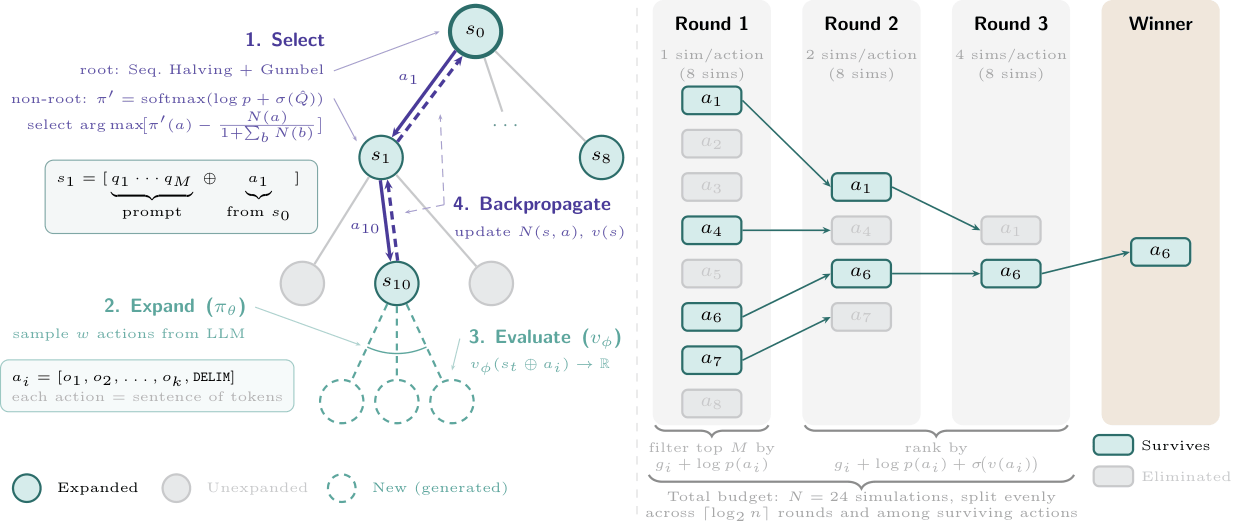
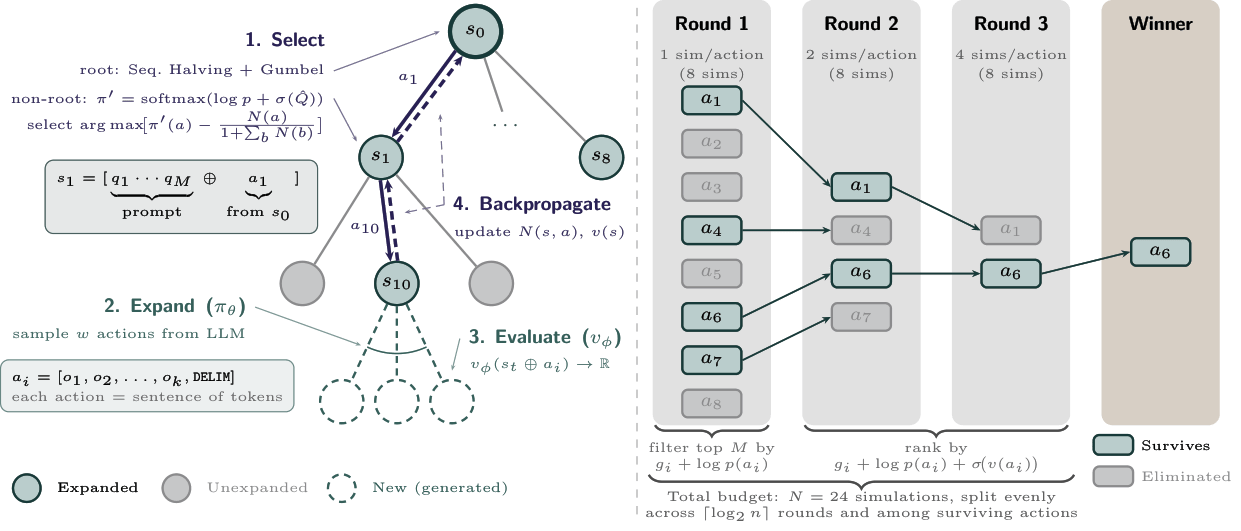
Updated README

diff --git a/README.md b/README.md
@@ -2,7 +2,8 @@
 
 **ReSCALE** is a modified Gumbel AlphaZero MCTS that replaces Dirichlet noise and PUCT with Gumbel sampling and Sequential Halving, restoring consistent performance scaling without retraining the model.
 
-[[`Paper`](https://arxiv.org/abs/2603.21162)]
+[![arXiv](https://img.shields.io/badge/arXiv-2603.21162-b31b1b.svg)](https://arxiv.org/abs/2603.21162)
+
 
 <p align="center">
 <img src="assests/scheme.png">
